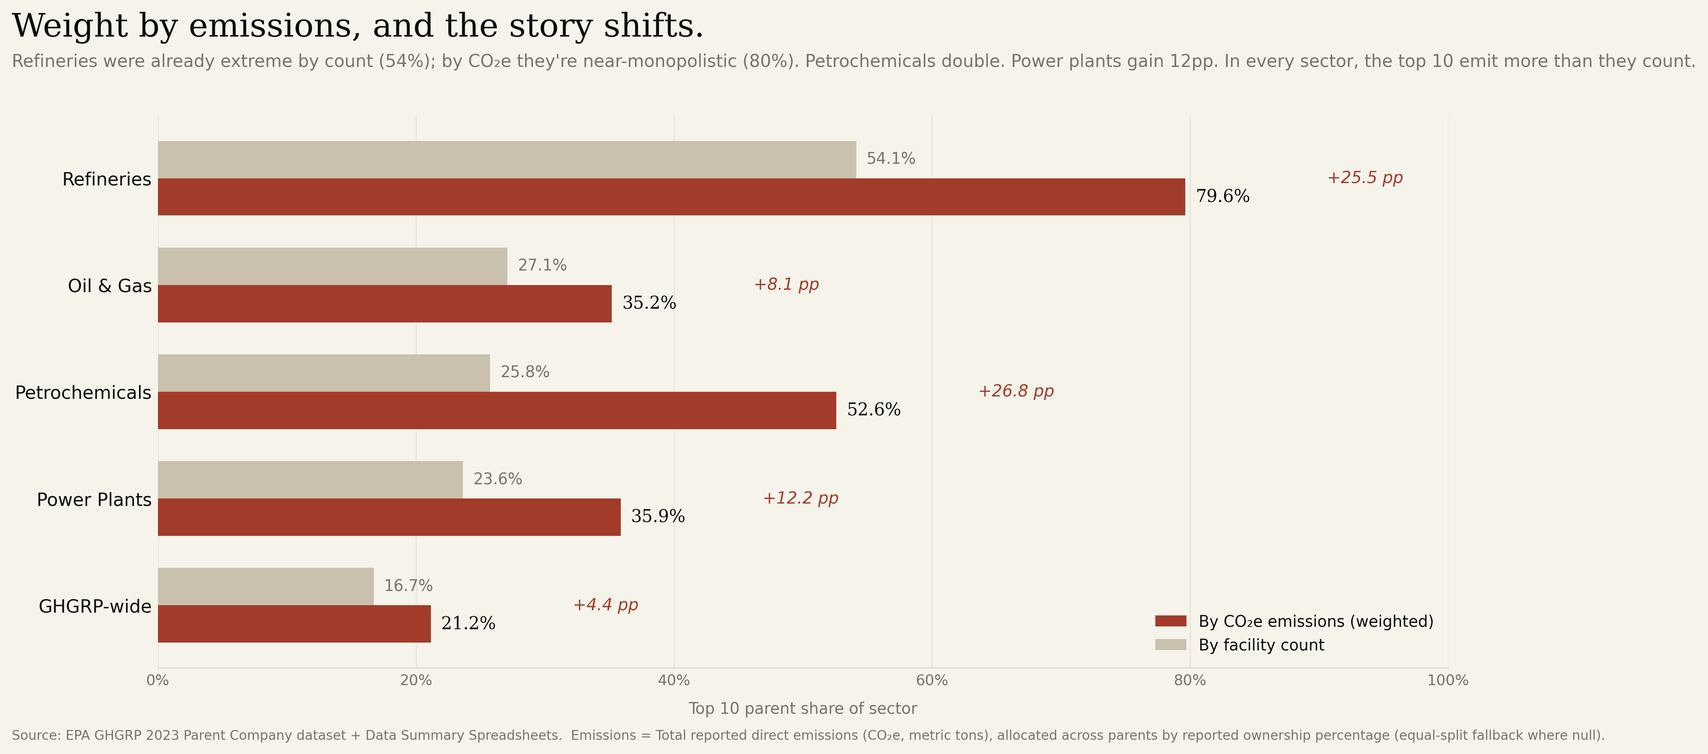
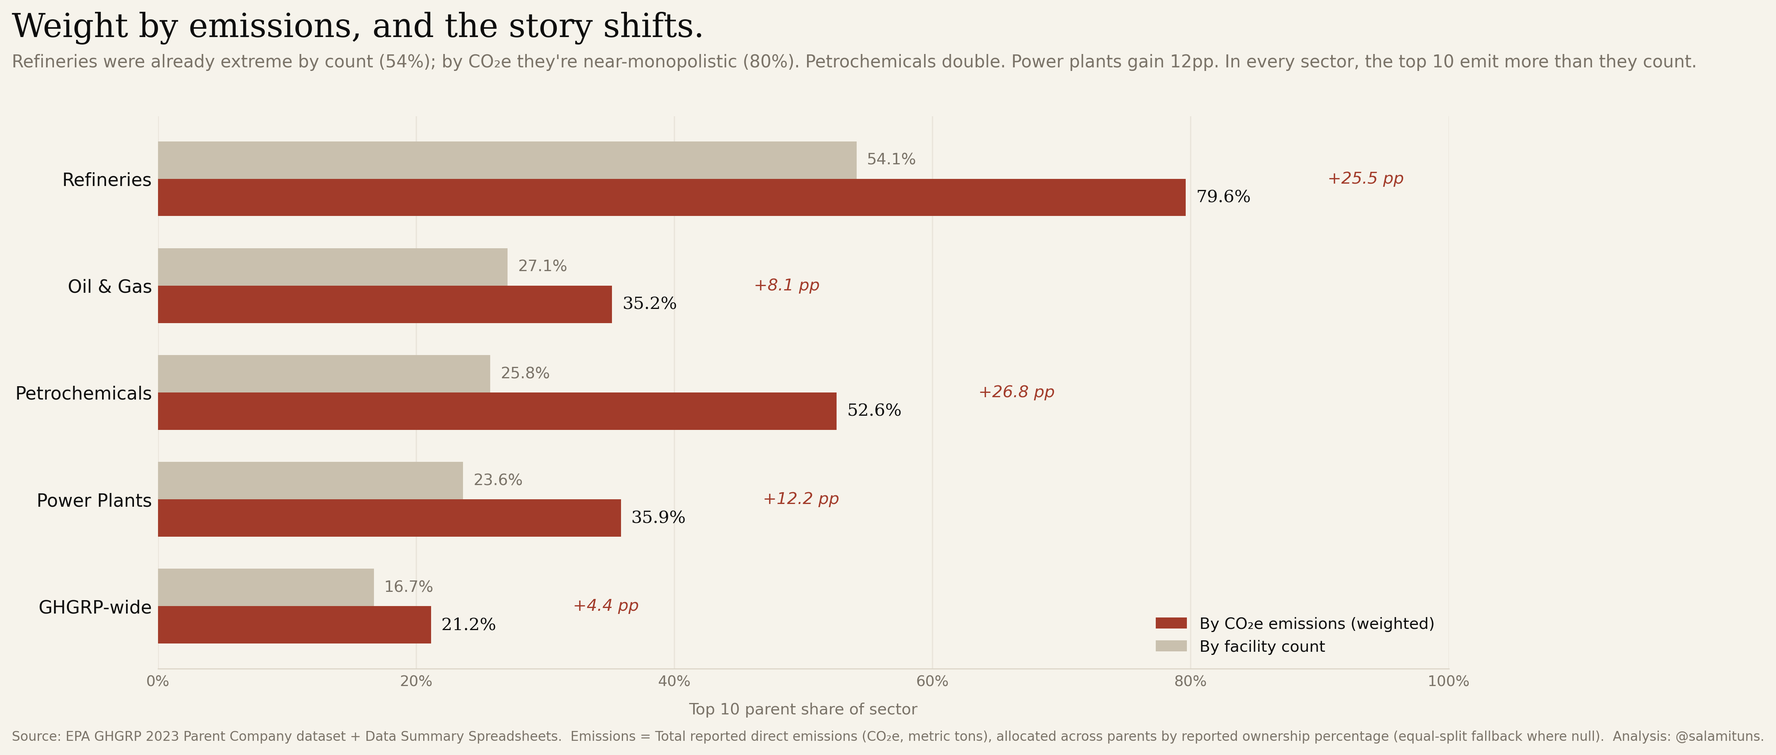
ghgrp: retrofit @salamituns attribution + scrub em dashes
All 14 figure PNGs regenerated with `Analysis: @salamituns.` on the
source line. Title, chip, figure-num separators, and body copy
re-punctuated to drop em dashes in favor of middot / comma / colon /
paren as context demands.

diff --git a/ghgrp/index.html b/ghgrp/index.html
@@ -5,7 +5,7 @@
 <meta name="viewport" content="width=device-width,initial-scale=1">
 <meta name="color-scheme" content="light">
 <meta name="theme-color" content="#F6F3EB">
-<title>Who Owns America&rsquo;s Industrial Emissions &mdash; Olatunde Salami</title>
+<title>Who Owns America&rsquo;s Industrial Emissions &middot; Olatunde Salami</title>
 <meta name="description" content="Fourteen years of EPA Greenhouse Gas Reporting Program data. 8,106 facilities, 3,327 parent companies, and a consolidation pattern shaped like the Gulf Coast pipeline network.">
 <meta property="og:title" content="Who Owns America&rsquo;s Industrial Emissions">
 <meta property="og:description" content="Consolidation has a shape, and it&rsquo;s shaped like the Gulf Coast pipeline network. Fourteen years of EPA GHGRP data, mapped.">
@@ -168,7 +168,7 @@ body.lightbox-open { overflow: hidden; }
 
 <header class="mast page">
   <a class="who" href="/" translate="no" aria-label="Back to portfolio">Olatunde&nbsp;Salami</a>
-  <span class="what">Project 02 &mdash; Emissions</span>
+  <span class="what">Project 02 &middot; Emissions</span>
 </header>
 
 <main>
@@ -196,7 +196,7 @@ body.lightbox-open { overflow: hidden; }
     <section class="standfirst" aria-labelledby="standfirst-heading">
       <h2 id="standfirst-heading" class="visually-hidden">Why this matters</h2>
       <p>
-        In September&nbsp;2025, the EPA proposed removing 46 of 47 source categories from the Greenhouse Gas Reporting Program &mdash; the program that produced this dataset. The comment period is open as of this writing. What follows is a map of what we would stop being able to see: fourteen reporting years in which the industries the program measures compounded into fewer hands, more facilities, and wider population reach. The case for the instrument is written in its own record.
+        In September&nbsp;2025, the EPA proposed removing 46 of 47 source categories from the Greenhouse Gas Reporting Program, the program that produced this dataset. The comment period is open as of this writing. What follows is a map of what we would stop being able to see: fourteen reporting years in which the industries the program measures compounded into fewer hands, more facilities, and wider population reach. The case for the instrument is written in its own record.
       </p>
     </section>
   </div>
@@ -205,7 +205,7 @@ body.lightbox-open { overflow: hidden; }
     <section aria-labelledby="stats-heading">
       <div class="section-head">
         <h2 class="caps" id="stats-heading">The Numbers</h2>
-        <span class="caps" aria-hidden="true">2010 &mdash; 2023</span>
+        <span class="caps" aria-hidden="true">2010&ndash;2023</span>
       </div>
       <div class="stats-grid" role="list">
         <div class="stat" role="listitem">
@@ -261,34 +261,34 @@ body.lightbox-open { overflow: hidden; }
         <a class="figure-entry contain wide" href="figures/ghgrp_hero_map_publication.png">
           <div class="thumb"><img src="figures/ghgrp_hero_map_publication.png" alt="National map of the continental US showing 391 Kinder Morgan and Energy Transfer facilities as clay-red and amber dots against a faint ghost layer of the other 7,010 GHGRP reporters, with 17 joint-venture facilities marked as violet diamonds clustered in Florida and along the Gulf Coast" loading="eager"></div>
           <figcaption>
-            <span class="figure-num">Figure 01 &mdash; National</span>
+            <span class="figure-num">Figure 01 &middot; National</span>
             <h3 class="figure-title">Two parents, 391 facilities.</h3>
-            <p class="figure-dek">The thesis of the piece, in one image. Kinder&nbsp;Morgan&rsquo;s 224 facilities and Energy&nbsp;Transfer&rsquo;s 184, mapped on a single frame. Seventeen are 50/50 joint ventures between the two and are counted once. Together: 4.8% of the 8,106 facilities that reported to the EPA Greenhouse Gas Reporting Program in 2023 &mdash; up from under 1% in 2010. Shown against a ghost layer of every other reporting facility so the two networks read as distinct shapes: the Kinder&nbsp;Morgan pipeline lattice coast-to-coast, Energy&nbsp;Transfer denser through the South and Midcontinent, the JV cluster in Florida.</p>
+            <p class="figure-dek">The thesis of the piece, in one image. Kinder&nbsp;Morgan&rsquo;s 224 facilities and Energy&nbsp;Transfer&rsquo;s 184, mapped on a single frame. Seventeen are 50/50 joint ventures between the two and are counted once. Together: 4.8% of the 8,106 facilities that reported to the EPA Greenhouse Gas Reporting Program in 2023, up from under 1% in 2010. Shown against a ghost layer of every other reporting facility so the two networks read as distinct shapes: the Kinder&nbsp;Morgan pipeline lattice coast-to-coast, Energy&nbsp;Transfer denser through the South and Midcontinent, the JV cluster in Florida.</p>
           </figcaption>
         </a>
 
         <a class="figure-entry contain wide" href="figures/ghgrp_waffle_scale.png">
           <div class="thumb"><img src="figures/ghgrp_waffle_scale.png" alt="Waffle grid of 1,000 squares where 658 are shaded clay, representing the 65.8 percent of Americans who live within 10 kilometres of a GHGRP reporting facility" loading="lazy"></div>
           <figcaption>
-            <span class="figure-num">Figure 02 &mdash; Scale</span>
+            <span class="figure-num">Figure 02 &middot; Scale</span>
             <h3 class="figure-title">Two thirds of America.</h3>
-            <p class="figure-dek">One thousand squares, each one a thousandth of the country. 658 of them &mdash; 221&nbsp;million residents &mdash; live within 10&nbsp;km of a facility that files a greenhouse-gas report with the EPA. Proximity is not exposure; it is the measure of how thoroughly industry shares the neighbourhood with the population.</p>
+            <p class="figure-dek">One thousand squares, each one a thousandth of the country. 658 of them (221&nbsp;million residents) live within 10&nbsp;km of a facility that files a greenhouse-gas report with the EPA. Proximity is not exposure; it is the measure of how thoroughly industry shares the neighbourhood with the population.</p>
           </figcaption>
         </a>
 
         <a class="figure-entry contain wide" href="figures/ghgrp_comparative_ribbon.png">
           <div class="thumb"><img src="figures/ghgrp_comparative_ribbon.png" alt="Two horizontal bars of identical length: one labelled 221 million Americans within 10 km of a reporter, the other tiled with Germany, the UK, Canada, and Australia totalling 217 million" loading="lazy"></div>
           <figcaption>
-            <span class="figure-num">Figure 03 &mdash; Comparison</span>
+            <span class="figure-num">Figure 03 &middot; Comparison</span>
             <h3 class="figure-title">Germany, the UK, Canada, and Australia.</h3>
-            <p class="figure-dek">Same two-thirds, in places you already know. The population within 10&nbsp;km of a GHGRP reporter is within four million of the combined populations of four G7/Anglosphere democracies. Scale here is not abstract &mdash; it is equivalent.</p>
+            <p class="figure-dek">Same two-thirds, in places you already know. The population within 10&nbsp;km of a GHGRP reporter is within four million of the combined populations of four G7/Anglosphere democracies. Scale here is not abstract. It is equivalent.</p>
           </figcaption>
         </a>
 
         <a class="figure-entry contain" href="figures/ghgrp_14yr_trend_recomputed.png">
           <div class="thumb"><img src="figures/ghgrp_14yr_trend_recomputed.png" alt="Line chart of top-N parent-company share of reporting facilities, 2010 to 2023" loading="lazy"></div>
           <figcaption>
-            <span class="figure-num">Figure 04 &mdash; Trend</span>
+            <span class="figure-num">Figure 04 &middot; Trend</span>
             <h3 class="figure-title">The top ten went from 11.7&percnt; to 16.7&percnt;.</h3>
             <p class="figure-dek">Top-10 parent share of reporting facilities, 2010&ndash;2023, computed under the any-stake union rule. A 43&percnt; relative increase. Only 27&nbsp;companies filed every year across the window.</p>
           </figcaption>
@@ -297,7 +297,7 @@ body.lightbox-open { overflow: hidden; }
         <a class="figure-entry contain" href="figures/ghgrp_top10_barchart.png">
           <div class="thumb"><img src="figures/ghgrp_top10_barchart.png" alt="Horizontal bar chart of the top 10 parent companies by facility count in 2023" loading="lazy"></div>
           <figcaption>
-            <span class="figure-num">Figure 05 &mdash; Top Ten</span>
+            <span class="figure-num">Figure 05 &middot; Top Ten</span>
             <h3 class="figure-title">Two parents run 415 facilities.</h3>
             <p class="figure-dek">Kinder&nbsp;Morgan went from 24 facilities in 2010 to 231 in 2023 (+862&percnt;). Energy&nbsp;Transfer, 19 to 184 (+868&percnt;). The chart ranks the ten largest reporters and their growth since 2010.</p>
           </figcaption>
@@ -306,16 +306,16 @@ body.lightbox-open { overflow: hidden; }
         <a class="figure-entry contain wide" href="figures/ghgrp_bump_operators.png">
           <div class="thumb"><img src="figures/ghgrp_bump_operators.png" alt="Bump chart of operator rank by GHGRP facility count from 2010 to 2023, showing Kinder Morgan and Energy Transfer rising into the top 3 while El Paso disappears after 2012" loading="lazy"></div>
           <figcaption>
-            <span class="figure-num">Figure 06 &mdash; Consolidation</span>
+            <span class="figure-num">Figure 06 &middot; Consolidation</span>
             <h3 class="figure-title">The operators that rose, and the ones that vanished.</h3>
-            <p class="figure-dek">Rank by facility count, 2010&ndash;2023, for the union of each year&rsquo;s top ten. Kinder&nbsp;Morgan arrives in 2012 and seizes rank&nbsp;2 by 2015 &mdash; the shape of the El&nbsp;Paso roll-up. Energy&nbsp;Transfer takes rank&nbsp;3 through Regency and Sunoco. Williams falls from fourth to eighth; El&nbsp;Paso disappears entirely. The board reshuffles while the program measures it.</p>
+            <p class="figure-dek">Rank by facility count, 2010&ndash;2023, for the union of each year&rsquo;s top ten. Kinder&nbsp;Morgan arrives in 2012 and seizes rank&nbsp;2 by 2015, the shape of the El&nbsp;Paso roll-up. Energy&nbsp;Transfer takes rank&nbsp;3 through Regency and Sunoco. Williams falls from fourth to eighth; El&nbsp;Paso disappears entirely. The board reshuffles while the program measures it.</p>
           </figcaption>
         </a>
 
         <a class="figure-entry" href="figures/ghgrp_corridor_map_publication.png">
           <div class="thumb"><img src="figures/ghgrp_corridor_map_publication.png" alt="Close-up map of the Gulf Coast pipeline corridor showing dense facility clusters by parent" loading="lazy"></div>
           <figcaption>
-            <span class="figure-num">Figure 07 &mdash; Corridor</span>
+            <span class="figure-num">Figure 07 &middot; Corridor</span>
             <h3 class="figure-title">The pipeline corridor, mapped.</h3>
             <p class="figure-dek">Zoomed to the Gulf&nbsp;Coast. Seventeen joint-venture facilities (Florida&nbsp;Gas&nbsp;Transmission, Transco, others) read as the shared backbone of otherwise-separate parents.</p>
           </figcaption>
@@ -324,16 +324,16 @@ body.lightbox-open { overflow: hidden; }
         <a class="figure-entry contain" href="figures/ghgrp_sector_concentration_2023.png">
           <div class="thumb"><img src="figures/ghgrp_sector_concentration_2023.png" alt="Horizontal bar chart comparing top-10 parent share across refineries, oil and gas, petrochemicals, power plants, and GHGRP-wide" loading="lazy"></div>
           <figcaption>
-            <span class="figure-num">Figure 08 &mdash; Sector</span>
+            <span class="figure-num">Figure 08 &middot; Sector</span>
             <h3 class="figure-title">Petroleum refining is the most concentrated sector.</h3>
-            <p class="figure-dek">Top-10 parent share of facilities by sector. Refineries sit at 54.1&percnt; &mdash; 3.2&times; the GHGRP-wide baseline. Oil &amp; gas, petrochemicals, and power plants follow, each consolidated differently.</p>
+            <p class="figure-dek">Top-10 parent share of facilities by sector. Refineries sit at 54.1&percnt; (3.2&times; the GHGRP-wide baseline). Oil &amp; gas, petrochemicals, and power plants follow, each consolidated differently.</p>
           </figcaption>
         </a>
 
         <a class="figure-entry contain" href="figures/ghgrp_basin_ownership_2023.png">
           <div class="thumb"><img src="figures/ghgrp_basin_ownership_2023.png" alt="Stacked bar chart of ownership concentration across the Permian, Appalachia, and other major basins" loading="lazy"></div>
           <figcaption>
-            <span class="figure-num">Figure 09 &mdash; Basin</span>
+            <span class="figure-num">Figure 09 &middot; Basin</span>
             <h3 class="figure-title">Every major basin tells a different ownership story.</h3>
             <p class="figure-dek">Permian: top-1 = 3.2&percnt;. Appalachia: different leader, different curve. Same dataset, different consolidation regimes depending on geology and history.</p>
           </figcaption>
@@ -342,16 +342,16 @@ body.lightbox-open { overflow: hidden; }
         <a class="figure-entry contain" href="figures/ghgrp_emissions_weighted_2023.png">
           <div class="thumb"><img src="figures/ghgrp_emissions_weighted_2023.png" alt="Paired bar chart comparing top-10 parent share by facility count versus by CO2e emissions, across refineries, oil and gas, petrochemicals, power plants, and GHGRP-wide" loading="lazy"></div>
           <figcaption>
-            <span class="figure-num">Figure 10 &mdash; Weighted</span>
+            <span class="figure-num">Figure 10 &middot; Weighted</span>
             <h3 class="figure-title">Weight by emissions, and the story shifts.</h3>
-            <p class="figure-dek">The same sectors, re-scored by CO&#8322;e instead of facility count. Refineries jump from 54&percnt; to 80&percnt;. Petrochemicals double. In every sector the top ten emit more than they count &mdash; count-based concentration understates the emissions reality.</p>
+            <p class="figure-dek">The same sectors, re-scored by CO&#8322;e instead of facility count. Refineries jump from 54&percnt; to 80&percnt;. Petrochemicals double. In every sector the top ten emit more than they count. Count-based concentration understates the emissions reality.</p>
           </figcaption>
         </a>
 
         <a class="figure-entry contain wide" href="figures/ghgrp_exposure_timeseries.png">
           <div class="thumb"><img src="figures/ghgrp_exposure_timeseries.png" alt="Annotated line chart of Americans within 10 kilometers of a GHGRP reporter from 2010 to 2023, rising from 200 million to 221 million with milestone markers for Subpart W, the Kinder Morgan roll-up, Energy Transfer consolidation, and the IRA methane fee" loading="lazy"></div>
           <figcaption>
-            <span class="figure-num">Figure 11 &mdash; Exposure, the whole panel</span>
+            <span class="figure-num">Figure 11 &middot; Exposure, the whole panel</span>
             <h3 class="figure-title">200&nbsp;million to 221&nbsp;million, across fourteen years.</h3>
             <p class="figure-dek">Every reporting facility in every year, 2010&ndash;2023, with milestones pinned on the curve: Subpart&nbsp;W&rsquo;s 2011 activation (the 9-million-person jump), Kinder&nbsp;Morgan&rsquo;s 2014 roll-up of El&nbsp;Paso, Energy&nbsp;Transfer&rsquo;s 2018 consolidation, and the 2022 Inflation Reduction Act. The population layer is frozen at the 2019&ndash;2023 ACS so the curve is a facility-entry signal, not a demographic one.</p>
           </figcaption>
@@ -360,25 +360,25 @@ body.lightbox-open { overflow: hidden; }
         <a class="figure-entry contain wide" href="figures/ghgrp_exposure_map_2023.png">
           <div class="thumb"><img src="figures/ghgrp_exposure_map_2023.png" alt="Population exposure map showing 7.7 million residents within 10 kilometers of a Kinder Morgan or Energy Transfer facility" loading="lazy"></div>
           <figcaption>
-            <span class="figure-num">Figure 12 &mdash; Exposure, the subset</span>
+            <span class="figure-num">Figure 12 &middot; Exposure, the subset</span>
             <h3 class="figure-title">Two parents alone reach 7.7&nbsp;million neighbors.</h3>
-            <p class="figure-dek">Zoom on Kinder&nbsp;Morgan and Energy&nbsp;Transfer in 2023. Census-tract populations area-weighted into 10&nbsp;km buffers; 702,000 within 3&nbsp;km. Combined footprint: ~100,000&nbsp;km&sup2; &mdash; roughly the area of Kentucky. Two companies, the population of Virginia.</p>
+            <p class="figure-dek">Zoom on Kinder&nbsp;Morgan and Energy&nbsp;Transfer in 2023. Census-tract populations area-weighted into 10&nbsp;km buffers; 702,000 within 3&nbsp;km. Combined footprint: ~100,000&nbsp;km&sup2;, roughly the area of Kentucky. Two companies, the population of Virginia.</p>
           </figcaption>
         </a>
 
         <a class="figure-entry contain wide" href="figures/ghgrp_state_delta_choropleth.png">
           <div class="thumb"><img src="figures/ghgrp_state_delta_choropleth.png" alt="Diverging choropleth of the continental US showing net change in GHGRP reporter count by state from 2010 to 2023, with Texas, Oklahoma, Louisiana, and Pennsylvania deepest in clay red and California, Illinois, and a handful of Northeast states in pale blue for losses" loading="lazy"></div>
           <figcaption>
-            <span class="figure-num">Figure 13 &mdash; Where the growth landed</span>
+            <span class="figure-num">Figure 13 &middot; Where the growth landed</span>
             <h3 class="figure-title">Texas gained 741 reporters. California lost 26.</h3>
-            <p class="figure-dek">Net change in facility count per state, 2010&ndash;2023. The growth is not spread across the country &mdash; it is concentrated in the shale-play and Gulf-petrochemical geography: Texas alone added 741 reporters, Oklahoma 129, Louisiana and Pennsylvania in the high double digits. California, Illinois, and parts of the Northeast lost reporters as older industrial capacity retired without replacement. The national trend in Figure&nbsp;04 is an average over very different state-level stories.</p>
+            <p class="figure-dek">Net change in facility count per state, 2010&ndash;2023. The growth is not spread across the country. It is concentrated in the shale-play and Gulf-petrochemical geography: Texas alone added 741 reporters, Oklahoma 129, Louisiana and Pennsylvania in the high double digits. California, Illinois, and parts of the Northeast lost reporters as older industrial capacity retired without replacement. The national trend in Figure&nbsp;04 is an average over very different state-level stories.</p>
           </figcaption>
         </a>
 
         <a class="figure-entry contain wide" href="figures/ghgrp_four_metros_grid.png">
           <div class="thumb"><img src="figures/ghgrp_four_metros_grid.png" alt="Two-by-two grid of regional facility maps for Houston, the Permian Basin, Cancer Alley, and the Marcellus shale, each classified by Kinder Morgan, Energy Transfer, joint-venture, and other reporters" loading="lazy"></div>
           <figcaption>
-            <span class="figure-num">Figure 14 &mdash; Four metros</span>
+            <span class="figure-num">Figure 14 &middot; Four metros</span>
             <h3 class="figure-title">Four metros, four versions of the same consolidation.</h3>
             <p class="figure-dek">Same classification as Figure&nbsp;07, four regional lenses. Houston: 360 reporters, the corporate control node where pipeline and petrochemical head offices concentrate. The Permian: 230 reporters, where Subpart&nbsp;W added thousands of gas-processing sources and Energy&nbsp;Transfer and Kinder&nbsp;Morgan hold the largest share. Cancer Alley: 130 reporters along the Mississippi River corridor, dominated by petrochemical operators that are not KM or ET. The Marcellus: 666 reporters spread across the Appalachian shale, the single densest region in the dataset and the one where KM/ET&rsquo;s share is smallest. The national aggregate is one number; on the ground it is four different stories.</p>
           </figcaption>
@@ -401,10 +401,10 @@ body.lightbox-open { overflow: hidden; }
       </div>
       <div class="prose">
         <p>
-          The GHGRP covers roughly 85&percnt; of US industrial greenhouse-gas emissions. Any facility emitting more than 25,000 metric tons of CO&#8322;e per year must file. It is the only federal dataset that ties emissions to named facilities and &mdash; through the Parent Company reporting layer &mdash; to their ultimate corporate owners. Strip it, and the only federal source of per-facility, per-parent emissions accountability goes with it.
+          The GHGRP covers roughly 85&percnt; of US industrial greenhouse-gas emissions. Any facility emitting more than 25,000 metric tons of CO&#8322;e per year must file. It is the only federal dataset that ties emissions to named facilities and (through the Parent Company reporting layer) to their ultimate corporate owners. Strip it, and the only federal source of per-facility, per-parent emissions accountability goes with it.
         </p>
         <p>
-          The imperfection critique is real: reporting is self-filed, Scope&nbsp;3 is out of scope, and methane assumptions have been contested for a decade. But imperfection is an argument for refinement, not dismantling &mdash; particularly during a period of accelerating ownership consolidation in the sectors the program measures. Every figure on this page exists because the data exists. What happens next determines whether the next fourteen years are measurable at all.
+          The imperfection critique is real: reporting is self-filed, Scope&nbsp;3 is out of scope, and methane assumptions have been contested for a decade. But imperfection is an argument for refinement, not dismantling, particularly during a period of accelerating ownership consolidation in the sectors the program measures. Every figure on this page exists because the data exists. What happens next determines whether the next fourteen years are measurable at all.
         </p>
       </div>
     </section>
@@ -452,16 +452,16 @@ body.lightbox-open { overflow: hidden; }
       </div>
       <div class="prose">
         <p>
-          Parent-company reconciliation is the load-bearing step. EPA files facility ownership with name variants (&ldquo;Kinder Morgan&rdquo;, &ldquo;Kinder&nbsp;Morgan&nbsp;Inc.&rdquo;, &ldquo;KM&nbsp;CO2&nbsp;Pipeline&nbsp;LLC&rdquo;) that collapse to the same ultimate parent. Joint ventures are counted once and weighted by ownership share, so the same facility isn&rsquo;t double-counted across partners. The 27-company &ldquo;every year&rdquo; count is continuous annual presence across all fourteen reporting years &mdash; not cumulative mentions.
+          Parent-company reconciliation is the load-bearing step. EPA files facility ownership with name variants (&ldquo;Kinder Morgan&rdquo;, &ldquo;Kinder&nbsp;Morgan&nbsp;Inc.&rdquo;, &ldquo;KM&nbsp;CO2&nbsp;Pipeline&nbsp;LLC&rdquo;) that collapse to the same ultimate parent. Joint ventures are counted once and weighted by ownership share, so the same facility isn&rsquo;t double-counted across partners. The 27-company &ldquo;every year&rdquo; count is continuous annual presence across all fourteen reporting years, not cumulative mentions.
         </p>
         <p>
-          Concentration metrics are the standard antitrust instruments: top-N share and the Herfindahl-Hirschman Index (<code>HHI = &Sigma;s&sup2;</code>&thinsp;&times;&thinsp;10,000). HHI is reported per sector, not nationally &mdash; refineries don&rsquo;t substitute for power plants.
+          Concentration metrics are the standard antitrust instruments: top-N share and the Herfindahl-Hirschman Index (<code>HHI = &Sigma;s&sup2;</code>&thinsp;&times;&thinsp;10,000). HHI is reported per sector, not nationally. Refineries don&rsquo;t substitute for power plants.
         </p>
         <p>
           Population exposure uses <a href="https://epsg.io/5070">EPSG:5070</a> (USA Contiguous Albers Equal Area) for accurate distance calculations. Ten-kilometre buffers are drawn around each facility point, unioned across facilities within a year, intersected with Census tract polygons (ACS&nbsp;5-year, 2019&ndash;2023, Table&nbsp;B01003), and area-weighted into the buffer so every tract resident is counted once regardless of overlap. Figure&nbsp;11 is the full 8,106-facility panel across all fourteen years; Figure&nbsp;12 is scoped to Kinder&nbsp;Morgan and Energy&nbsp;Transfer; Figure&nbsp;02 takes the 2023 slice of that panel and re-expresses 65.8&percnt; as a tactile thousand-square grid. The population layer is <em>frozen</em> at the 2019&ndash;2023 ACS across every year. Tract-level population change is under 20&percnt; over the window while facility count grew 55&percnt;, so freezing population isolates what changed: facility entry, not demography.
         </p>
         <p>
-          Processing in Python &mdash; <code>pandas</code>, <code>geopandas</code>, <code>shapely</code>. Figures are <code>matplotlib</code> at 300&nbsp;DPI. Maps use CARTO basemaps.
+          Processing in Python: <code>pandas</code>, <code>geopandas</code>, <code>shapely</code>. Figures are <code>matplotlib</code> at 300&nbsp;DPI. Maps use CARTO basemaps.
         </p>
       </div>
     </section>
